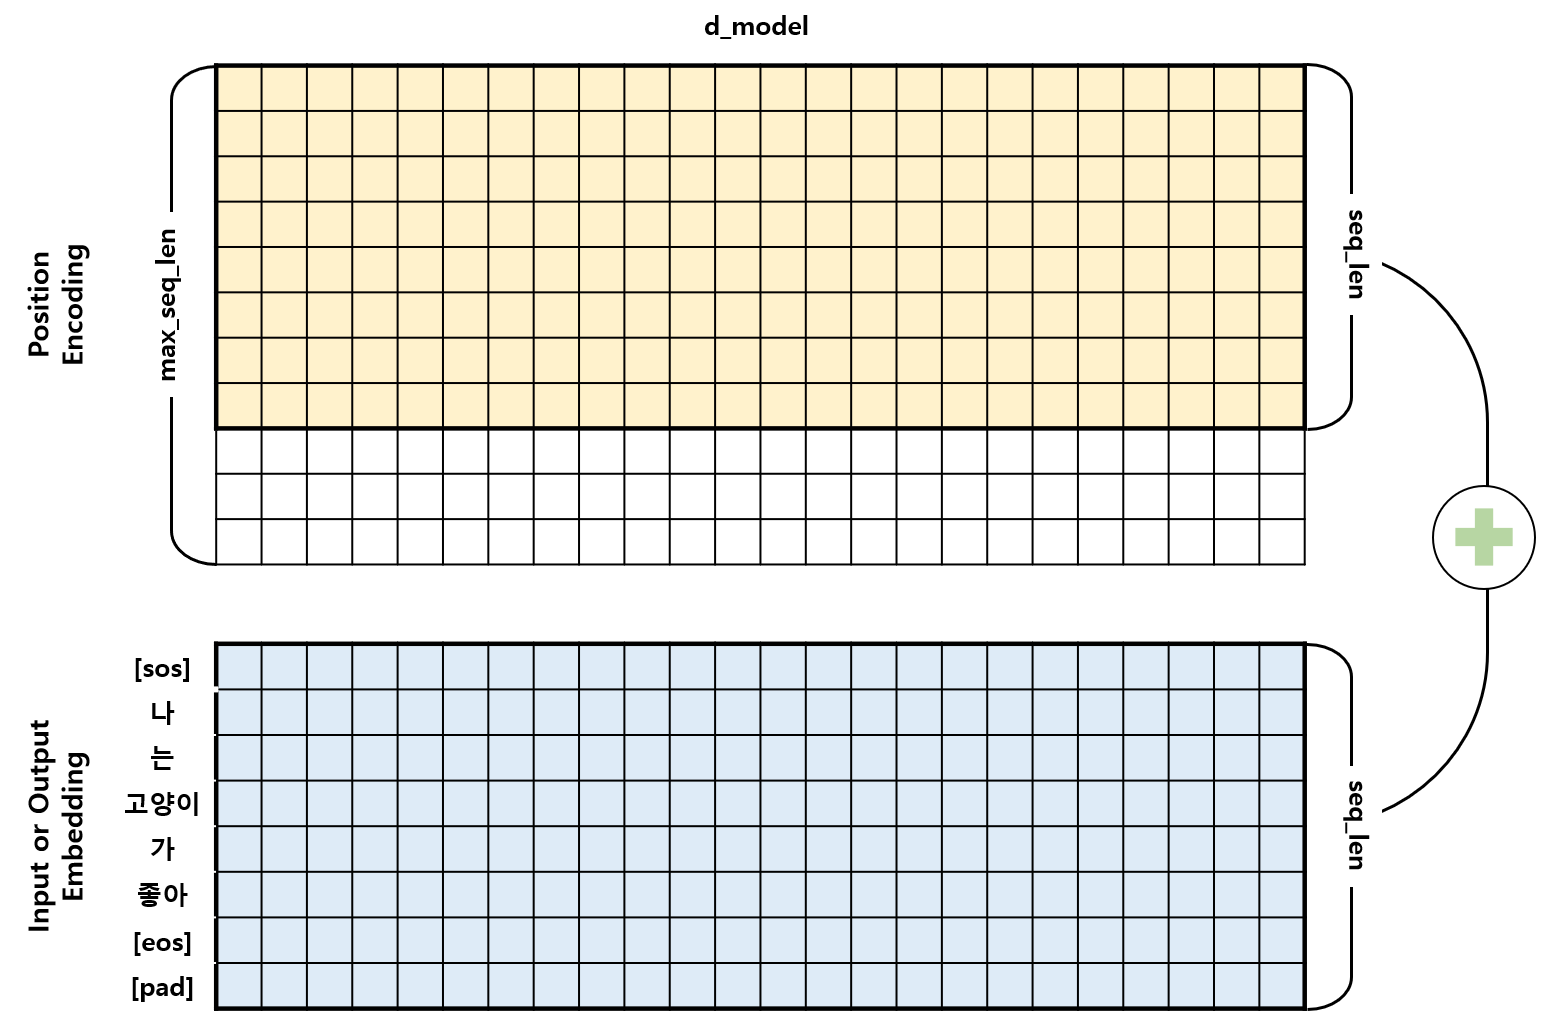
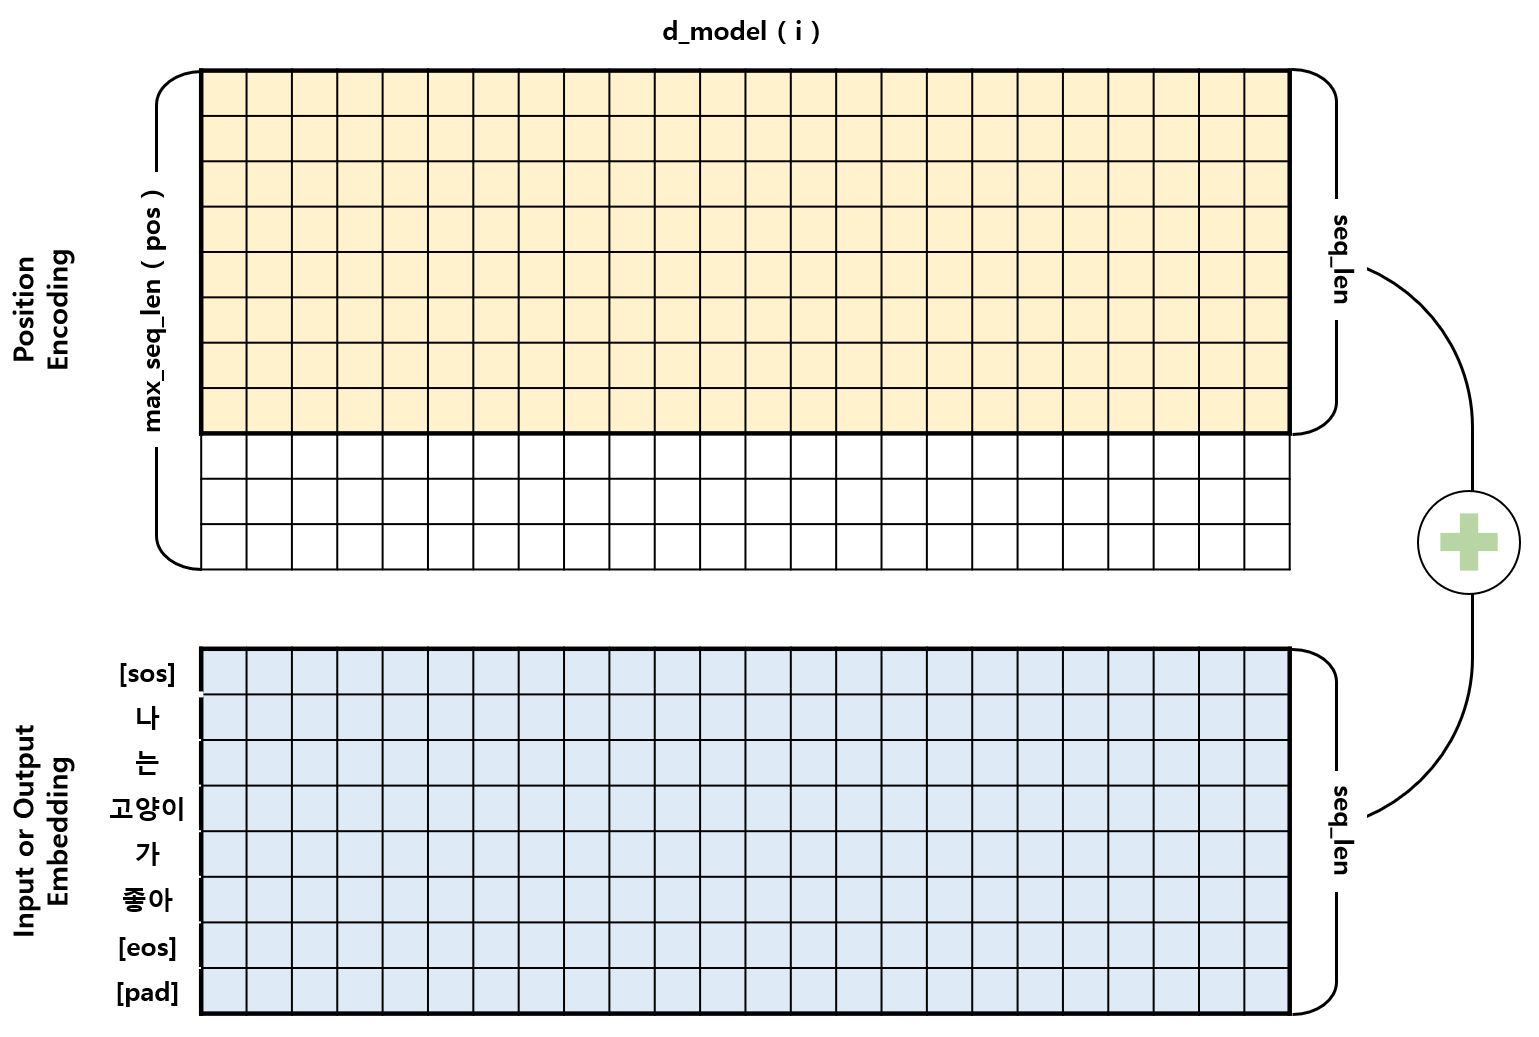
update

diff --git a/Paper_Code_Practice/Transformer/model/layers/embedding/positional_encoding.py b/Paper_Code_Practice/Transformer/model/layers/embedding/positional_encoding.py
@@ -5,25 +5,28 @@ class PositionalEncoding(nn.Module):
     def __init__(self, d_model, max_len, device):
         super().__init__()
 
-        # self.P_E는 [max_len,d_model]로 초기화 -> 입력 seq 길이에 따라 잘라서 사용 
-        # (여러번 생성할 필요 없음)
+        # Positional Encoding 초기화
+        # 1. 비어있는 tensor 생성
+        # (max_len,d_model)
         self.P_E = torch.zeros(max_len, d_model, device=device)
         # 학습되는 값이 아님으로 requires_grad 을 False로 설정
         self.P_E.requires_grad = False
-    
-        # 문자 시퀀스의 위치 순서 (row => 2d)
+
+        # 2. pos (0~max_len) 생성 (row 방향 => unsqueeze(dim=1))
         pos = torch.arange(0, max_len, dtype=torch.float, device=device).unsqueeze(dim=1)
 
-        # d_model 차원을 채울 i 값 (col)
+        # 3. _2i (0~2i) 생성 (col 방향)
         # 2i는 step = 2 를 활용하여 i의 2배수를 만듦
         _2i = torch.arange(0, d_model, step= 2, dtype=torch.float, device=device)
 
-        # 제안된 positional encoding 생성
+        # 4. 제안된 positional encoding 생성 
+        # (i가 짝수일때 : sin, 홀수일때 : cos)
         self.P_E[:, 0::2] = torch.sin(pos / 10000 ** (_2i / d_model))
         self.P_E[:, 1::2] = torch.cos(pos / 10000 ** (_2i / d_model))
 
     def forward(self,x):
-        # x seq 길이에 맞춰 PE 크기 조절 [seq_len, d_model]
+        # x seq 길이에 맞춰 PE return 
+        # (seq_len, d_model)
         batch_size, seq_len = x.size()
         PE_for_x = self.P_E[:seq_len,:]
 

diff --git a/Paper_Code_Practice/Transformer/model/layers/encoder_layer.py b/Paper_Code_Practice/Transformer/model/layers/encoder_layer.py
@@ -15,20 +15,23 @@ class EncoderLayer(nn.Module):
         self.dropout = nn.Dropout(p=dropout)
 
     def forward(self, x, padding_mask):
-        # 1. multi-head attention
-        residual = x  # residual connection을 위해 잠시 담아둠
+        # residual connection을 위해 잠시 담아둔다.
+        residual = x
+        
+        # 1. multi-head attention (self attention)
         x, attention_score = self.attention(q=x, k=x, v=x, mask=padding_mask) 
         
         # 2. add & norm
         x = self.dropout(x) + residual
         x = self.layerNorm1(x)
 
-        # 3. position-wise fc feed-forward network
         residual = x
+
+        # 3. feed-forward network
         x = self.ffn(x)
 
         # 5. add & norm
         x = self.dropout(x) + residual
         x = self.layerNorm2(x)
 
-        return x, attention_score 
+        return x, attention_score

diff --git a/Paper_Code_Practice/Transformer/model/layers/README.md b/Paper_Code_Practice/Transformer/model/layers/README.md
@@ -1,0 +1,148 @@
+# Layers
+<p align="center">
+    <img src="../../../src/encoder_layer" height="175">
+    <img src="../../../src/decoder_layer.png" height="250">
+</p>
+
+- 먼저 구현한 Sub Layers와 PyTorch에서 제공하는 LayerNorm 함수를 활용하여 Encoder Layer와 Decoder Layer의 class를 구현하였다.
+- 논문에서 mask는 Decoder Layer에서 한번 사용되었지만 padding token의 학습이 안되어도 됨으로 해당 내용을 추가하여 모든 Attention에서 mask가 사용되었다.
+
+### [목차]
+1. [Encoder Layer](#1-encoder-layer)
+2. [Decoder Layer](#2-decoder-layer)
+
+## 1. Encoder Layer
+<p align="center">
+    <img src="../../../src/encoder_layer_comment.png" height="175">
+</p>
+
+- Encoder Layer에서는 multi-head self-attention layer와 position-wise fully connected feed-forward network layer가 사용되었다.
+- 논문에 따라 모든 Sub Layer의 output에 대하여 residual connection과 layer normalization을 적용하였다.
+- 각 layer의 output의 demension은 embedding layer와 동일한 $d_{model} = 512$ 이다.
+
+### 1.1. 알고리즘 순서
+1. multi-head attention
+    - self-attention에 해당한다. 
+    - Encoder의 self-attention layer에서는 key, value, query가 같은 input(이전 layer의 output)에서 오기 때문에, 모든 단어의 위치에 대한 attention 정보를 담은 attention score를 얻을 수 있다.
+    - 추가적으로 패딩 토큰에 대하여 학습하지 않도록 아래 그림과 같은 패딩 마스크를 사용한다.
+<p align="center"><img src="../../../src/mask_padding.png" height="175"></p>
+
+2. add & norm
+    > $LayerNorm(x + Sublayer(x))$
+
+    - residual connection을 적용하여 multi-head attention을 들어가지 않은 x와 통과한 Sublayer(x)를 더해준다.
+    - 이때 Sublayer(x)에 dropout( $P_{drop} = 0.1$ )을 적용한다.
+    - norm 은 layer normalization 을 의미한다.
+3. feed-forward network
+    - position-wise fully connected feed-forward network 를 의미한다.
+4. add & norm
+
+### 1.2. EncoderLayer 코드
+```python
+class EncoderLayer(nn.Module):
+    def __init__(self, d_model, head, d_ff, dropout):
+        super().__init__()
+        self.attention = MultiHeadAttention(d_model,head)
+        self.layerNorm1 = nn.LayerNorm(d_model)
+
+        self.ffn = PositionWiseFCFeedForwardNetwork(d_model,d_ff)
+        self.layerNorm2 = nn.LayerNorm(d_model)
+
+        self.dropout = nn.Dropout(p=dropout)
+
+    def forward(self, x, padding_mask):
+        # residual connection을 위해 잠시 담아둔다.
+        residual = x
+        
+        # 1. multi-head attention (self attention)
+        x, attention_score = self.attention(q=x, k=x, v=x, mask=padding_mask) 
+        
+        # 2. add & norm
+        x = self.dropout(x) + residual
+        x = self.layerNorm1(x)
+
+        residual = x
+
+        # 3. feed-forward network
+        x = self.ffn(x)
+
+        # 5. add & norm
+        x = self.dropout(x) + residual
+        x = self.layerNorm2(x)
+
+        return x, attention_score 
+```
+
+## 2. Decoder Layer
+<p align="center">
+    <img src="../../../src/decoder_layer_comment.png" height="250">
+</p>
+
+- Decoder Layer에서는 multi-head self-attention layer와 multi-head encoder-decoder attention layer, position-wise fully connected feed-forward network layer가 사용되었다.
+- Encoder와 마찬가지로 모든 Sub Layer의 output에 대하여 residual connection과 layer normalization을 적용하였다.
+
+### 2.1. 알고리즘 순서
+1. masked multi-head attention
+    - self-attention에 해당한다.
+    - Decoder의 self-attention layer에서 또한 Encoder의 self-attention layer와 같이 self-attention score를 얻을 수 있다.
+    - 하지만 padding mask 대신에 오른쪽 방향으로의 정보 흐름을 유지하는 auto-regressive(자기회귀)한 특성을 위해 **look-ahead mask** 사용한다.
+    - look-ahead mask는 $pos$ 번째 위치에 있는 단어의 attention 정보를 얻을 때, $pos$ 번째보다 이후에 있는 단어들을 참고하지 못하도록 하는 마스크이다.
+    - 이때 입력되는 look-ahead mask에는 padding mask 정보도 포함된다.
+<p align="center"><img src="../../../src/mask_look_ahead.png" height="175"></p> 
+
+2. add & norm
+3. multi-head attention
+    - encoder-decoder attention에 해당한다. 
+    - 이때, query는 decoder에서 올라오고, key, value는 encoder에서 넘어온 값을 사용한다. 따라서 encoder의 모든 단어의 정보가 decoder 단어에 대한 attention 정보에 영향을 미치게 된다.
+    - 여기서도 패딩 토큰을 학습하지 않도록 패딩 마스크를 사용한다. 단, encoder-decoder attention인 만큼 input과 output의 패딩 토큰이 있는 곳은 모두 마스킹된다.
+    <p align="center">
+    <img src="../../../src/attention_encoder_decoder.png" height="175"> <br>
+    <img src="../../../src/attention_key.png" height="175">
+    </p> 
+4. add & norm
+5. position-wise fc feed-forward network
+6. add & norm
+
+### 2.2. ScaleDotProductAttention 코드
+```python
+class DecoderLayer(nn.Module):
+    def __init__(self, d_model, head, d_ff, dropout):
+        super().__init__()
+        self.attention1 = MultiHeadAttention(d_model,head)
+        self.layerNorm1 = nn.LayerNorm(d_model)
+        
+        self.attention2 = MultiHeadAttention(d_model,head)
+        self.layerNorm2 = nn.LayerNorm(d_model)
+
+        self.ffn = PositionWiseFCFeedForwardNetwork(d_model,d_ff)
+        self.layerNorm3 = nn.LayerNorm(d_model)
+
+        self.dropout = nn.Dropout(p=dropout)
+
+    def forward(self, x, memory, look_ahead_mask, padding_mask):
+        # 1. masked multi-head attention (self attention)
+        residual = x
+        x, _ = self.attention1(q=x, k=x, v=x, mask=look_ahead_mask)
+
+        # 2. add & norm
+        x = self.dropout(x) + residual
+        x = self.layerNorm1(x)
+
+        # 3. multi-head attention (encoder-decoder attention)
+        residual = x
+        x, _ = self.attention2(q=x, k=memory, v=memory, mask=padding_mask)
+
+        # 4. add & norm
+        x = self.dropout(x) + residual
+        x = self.layerNorm2(x)
+
+        # 5. feed-forward network
+        residual = x
+        x = self.ffn(x)
+
+        # 6. add & norm
+        x = self.dropout(x) + residual
+        x = self.layerNorm3(x)
+
+        return x 
+```

diff --git a/Paper_Code_Practice/Transformer/model/layers/embedding/README.md b/Paper_Code_Practice/Transformer/model/layers/embedding/README.md
@@ -1,51 +1,53 @@
 # Embedding
-<div align="center"><img src="../../../src/emb.png" style="max-width: 400px; height:auto; width:auto;"></div>
+<p align="center"><img src="../../../src/emb.png" height="130"></p>
 
 - Transformer에서 사용되는 Embedding은 Input Embedding과 Output Embedding이 있으며, 이들과 더해지는 Positional Encoding이 있다.
 - Input과 Output Embedding은 torch에서 제공하는 nn.Embedding을 사용하였으며, Positional Encoding은 논문에서 제시하는 수식을 따라 Positional Encoding class를 구현하였다. 
 
 ## 1. Positional Encoding
-<p align="center"><img src="../../../src/pe.png" style="max-width: 800px; height:auto; width:auto;"></p>
+<p align="center"><img src="../../../src/pe.png" height="350"></p>
 
-- Positional Encoding은 **시퀀스의 순서(단어의 위치 정보)**를 알려주는 역할을 한다.
-- Input과 Output Embedding이 입력될 때 Positional Encoding 정보가 더해져 Encoder와 Decoder에 들어감으로 Embedding과 같은 shape (batch_size, seq_len, $d_{model}$)을 갖는다.
-- Positional Encoding 정보는 변하지 않고 Embedding과 같은 seq_len 길이를 가지면 되기 때문에, 시퀀스의 최대 길이(max_seq_len)로 미리 행렬을 초기화를 한 뒤에 입력되는 길이에 맞게 잘라 사용할 수 있다.
+- Positional Encoding은 **시퀀스의 순서 (단어의 위치 정보)** 를 알려주는 역할을 한다.
+- Input과 Output Embedding이 입력될 때 Positional Encoding 정보가 더해져 Encoder와 Decoder에 들어감으로 Embedding과 같은 shape (batch_size, seq_len, d_model) 을 갖는다.
+- Positional Encoding 정보는 변하지 않고 Embedding과 같은 seq_len 길이를 가지면 되기 때문에, 시퀀스의 최대 길이 (max_len) 로 미리 행렬을 초기화를 한 뒤에 입력되는 길이에 맞게 잘라 사용할 수 있다. (여러번 생성할 필요 없음)
 
 ### 1.1. 함수
 - 논문에서 주어진 함수는 다음과 같다.    
     > $PE_{(pos,2i)} = sin(pos/10000^{2i/d_{model}})$   
     > $PE_{(pos,2i+1)} = cos(pos/10000^{2i/d_{model}})$
 - $pos$ 는 단어의 위치이고 $i$ 는 $d_{model}$ 차원의 index를 뜻한다.
-- 주기가 $10000^{2i/d_{model}} * 2\pi$ 인 삼각함수이며, $d_{model}$ 차원의 index가 짝수($2i$)일 때 $sine$ 함수를 사용하고, 홀수($2i$)일 때 $cosine$ 함수를 사용
+- 주기가 $10000^{2i/d_{model}} * 2\pi$ 인 삼각함수이며, $d_{model}$ 차원의 index가 짝수( $2i$ )일 때 $sine$ 함수가 사용되고, 홀수( $2i$ )일 때 $cosine$ 함수가 사용되었다.
 
 ### 1.2. 알고리즘 순서
-0. initialization
+0. Positional Encoding Initialization
     1. 비어있는 tensor 생성
     2. pos (0~max_len) 생성 
     3. _2i (0~2i) 생성
     4. 제안된 positional encoding 생성
 1. x seq 길이에 맞춰 PE return
 
-### 1.3. MultiHeadAttention 코드
+### 1.3. PositionalEncoding 코드
 ```python
 class PositionalEncoding(nn.Module):
     def __init__(self, d_model, max_len, device):
         super().__init__()
 
-        # self.P_E는 (max_len,d_model)로 초기화 -> 입력 seq 길이에 따라 잘라서 사용 (여러번 생성할 필요 없음)
+        # Positional Encoding 초기화
         # 1. 비어있는 tensor 생성
+        # (max_len,d_model)
         self.P_E = torch.zeros(max_len, d_model, device=device)
         # 학습되는 값이 아님으로 requires_grad 을 False로 설정
         self.P_E.requires_grad = False
 
-        # 2. pos (0~max_len) 생성 (row => 2d)
+        # 2. pos (0~max_len) 생성 (row 방향 => unsqueeze(dim=1))
         pos = torch.arange(0, max_len, dtype=torch.float, device=device).unsqueeze(dim=1)
 
-        # 3. _2i (0~2i) 생성 (col)
+        # 3. _2i (0~2i) 생성 (col 방향)
         # 2i는 step = 2 를 활용하여 i의 2배수를 만듦
         _2i = torch.arange(0, d_model, step= 2, dtype=torch.float, device=device)
 
-        # 4. 제안된 positional encoding 생성 (i 짝수 : sin, 홀수 : cos)
+        # 4. 제안된 positional encoding 생성 
+        # (i가 짝수일때 : sin, 홀수일때 : cos)
         self.P_E[:, 0::2] = torch.sin(pos / 10000 ** (_2i / d_model))
         self.P_E[:, 1::2] = torch.cos(pos / 10000 ** (_2i / d_model))
 

diff --git a/Paper_Code_Practice/Transformer/model/layers/sub_layers/README.md b/Paper_Code_Practice/Transformer/model/layers/sub_layers/README.md
@@ -13,11 +13,11 @@
 - Multi-Head 이름은 입력된 Q,K,V 행렬을 Head의 수만큼 나누었기 때문에 붙여졌다.
 - 논문에서는 Query, Key, Value 단일 Attention Function을 쓰기보다 Q, K, V를 각각 $d_k, d_k, d_v$ 차원으로 projection하여 Head의 수만큼 $h$ 번 병렬 학습시키는 방법을 선택하였다.
 - 여기서 Head를 나눈다는 것은 아래 그림처럼 $d_{model}$ 차원을 $h$ 개로 분리한다는 것이다.
-<p align="center"><img src="../../../src/head.png" height="400"></p>
+<p align="center"><img src="../../../src/head.png" height="200"></p>
 
 ### 1.1. 함수
 - 논문에서 주어진 함수는 다음과 같다.   
-    > $MultiHead (Q, K, V) = Concat(head_1, ..., head_h)W^O,$    
+    > $MultiHead (Q, K, V)$ $= Concat(head_1, ..., head_h)W^O,$    
     > $where$  $head_i = Attention(QW^Q_i, KW^K_i, VW^V_i)$    
 
 - 논문에서는 $d_{model} = 512,  h = 8,  d_k = d_v = \frac{d_{model}}{h} = 64$ 을 사용하였다.
